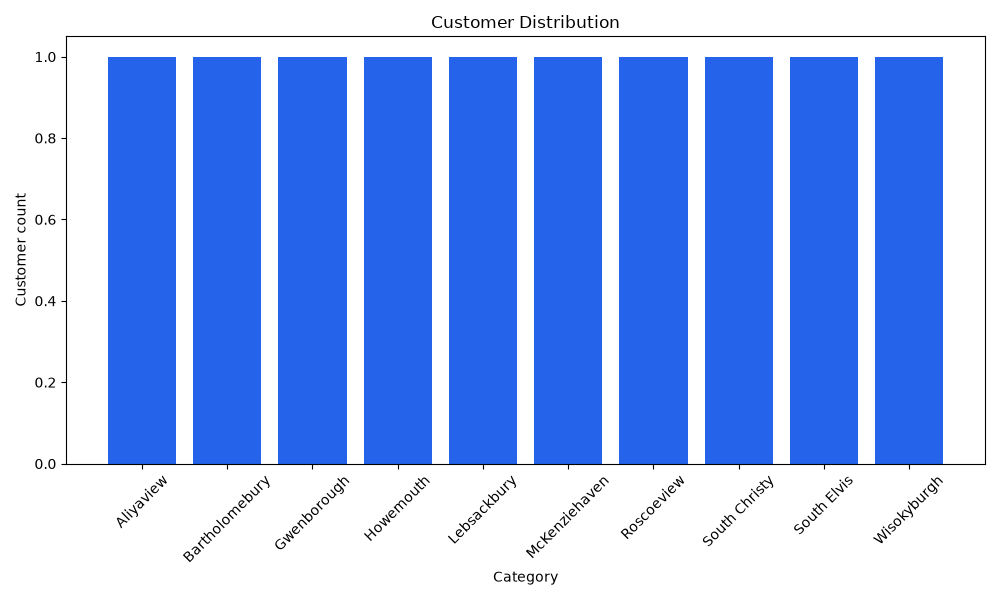
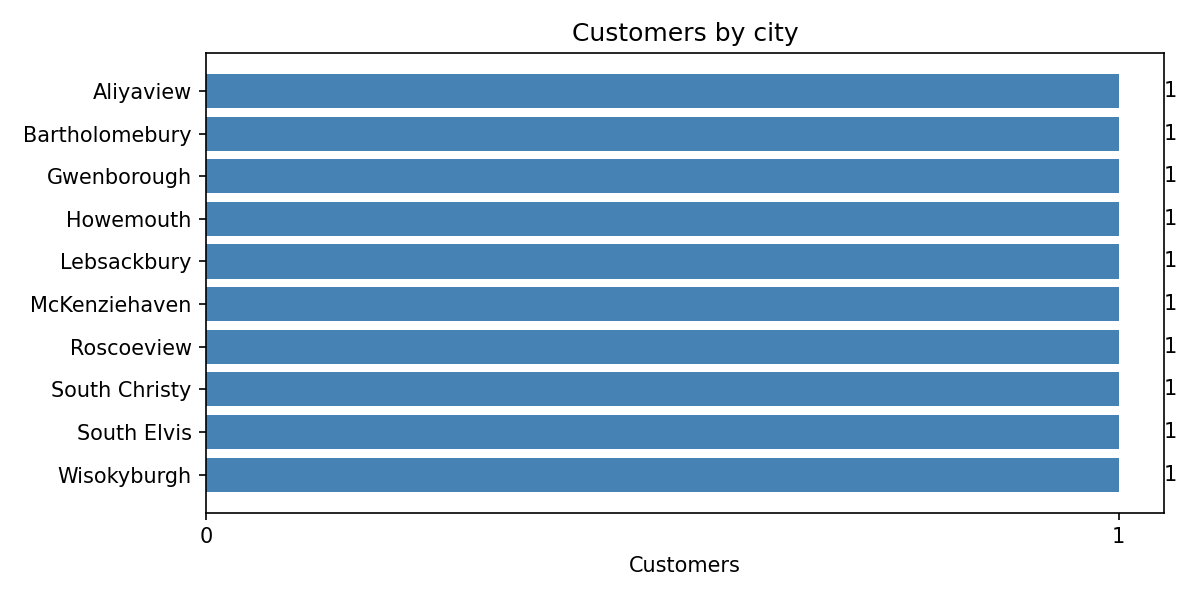
Refactor customer data extraction and enhance error handling; update output files and add email TLD distribution chart

diff --git a/user_analysis_day1/analysis.py b/user_analysis_day1/analysis.py
@@ -15,10 +15,10 @@ API_URL = "https://jsonplaceholder.typicode.com/users"
 def get_customers(url: str = API_URL) -> list[dict]:
     """Fetch the customer list. Report failures clearly instead of crashing."""
     try:
-        response = requests.get(url,timeout=10)
+        response = requests.get(url, timeout=10)
         response.raise_for_status()
         return response.json()
-    except requests.request.exceptions.RequestException as error:
+    except requests.exceptions.RequestException as error:
         print(f"Error fetching customers: {error}")
         return []
 
@@ -44,30 +44,26 @@ if customers:
 
 def extract_attributes(customers: list[dict]) -> list[dict]:
     """Return one flat dict per customer with the attributes listed in the task."""
-    rows = [
-        # creating an empty list , inisde it will have many dictionaries, each dictinary has individual attributes from the jason file(a nested dictinary)
+    return [
+        {
+            "customer_id": customer["id"],
+            "name": customer["name"],
+            "username": customer["username"],
+            "email": customer["email"],
+            "email_domain": customer["email"].split("@")[-1].lower(),
+            "phone": customer["phone"],
+            "city": customer["address"]["city"],
+            "zipcode": customer["address"]["zipcode"],
+            "latitude": float(customer["address"]["geo"]["lat"]),
+            "longitude": float(customer["address"]["geo"]["lng"]),
+            "company": customer["company"]["name"],
+            "website": customer["website"],
+        }
+        for customer in customers
     ]
-    # customers is the whole json file with (eg 500 customers), c stands for one out of the 500 customers.
-    for c in customers:
-        rows.append({
-            'id': c['id'],
-            'name': c['name'],
-            "username": c["username"],
-            "email": c["email"],
-            "email_domain": c["email"].split("@")[-1].lower(),
-            "phone": c["phone"],
-            "city": c["address"]["city"],
-            "zipcode": c["address"]["zipcode"],
-            "latitude": float(c["address"]["geo"]["lat"]),
-            "longitude": float(c["address"]["geo"]["lng"]),
-            "company": c["company"]["name"],
-            "website": c["website"],
-        })
-    return rows
 
 
 result_x = extract_attributes(customers)
-print(result_x)
 
 
 def unique_cities(customers: list[dict]) -> set[str]:
@@ -75,7 +71,12 @@ def unique_cities(customers: list[dict]) -> set[str]:
     return {c["address"]["city"] for c in customers}
 
 cities = unique_cities(customers)
-print(cities)
+print(f"Customers retrieved : {len(customers)}")
+print(f"Unique cities       : {len(cities)}")
+if len(cities) == len(customers):
+    print("Marketing insight   : Every customer is in a different city, so city is a poor segment for this sample.")
+else:
+    print("Marketing insight   : Repeated cities may be useful for geographic customer segmentation.")
 
 
 
@@ -95,30 +96,36 @@ def email_domain_counts(customers: list[dict]) -> dict[str, int]:
     domains = [c["email"].split("@")[-1].lower() for c in customers]
     return {d: domains.count(d) for d in set(domains)}
       
-distict_count = city_counts(customers)
+distinct_count = city_counts(customers)
 distinct_email = email_domain_counts(customers)
-# print_sorted(city_counts(customers), "Customers by city")
-# print_sorted(email_domain_counts(customers), "Customers by email domain")
-print(distict_count, "Distict customer Names")
-print(distinct_email, "distict emails")
+
+most_common_city = max(distinct_count, key=distinct_count.get)
+print(f"Most common city    : {most_common_city} ({distinct_count[most_common_city]})")
+print(f"Email domains       : {distinct_email}")
 
 
 def print_sorted(counts: dict[str, int], title: str) -> None:
     """Print counts from most to least common, ties listed alphabetically."""
     print(title)
     for name, n in sorted(counts.items(), key=lambda item: (-item[1], item[0])):
-        print(f"  {name}: {n}")
+        print(f"{name}: {n}")
 
 
-distinct_email = email_domain_counts(customers)
-print(distinct_email)
+
+print_sorted(distinct_count, "Customers by city")
+print_sorted(distinct_email, "Customers by email domain")
+
 
 def to_dataframe(rows: list[dict]) -> pd.DataFrame:
     return pd.DataFrame(rows)
-pd.set_option("display.max_columns", None)
+
+
 df = to_dataframe(result_x)
-print(df.shape)
-print(df.dtypes)
+pd.set_option("display.max_columns", None)
+print("DataFrame shape:", df.shape)
+print("DataFrame dtypes:\n", df.dtypes)
+
+
  # 2. Confirm pandas agrees with the hand-written counts
 hand_cities = city_counts(customers)
 hand_domains = email_domain_counts(customers)
@@ -148,8 +155,8 @@ df.to_csv(out_dir / "customers.csv", index=False)
 city_df = (
     df.groupby("city")
       .size()
-      .reset_index(name="count")
-      .sort_values(["count", "city"], ascending=[False, True])
+    .reset_index(name="customer_count")
+    .sort_values(["customer_count", "city"], ascending=[False, True])
 )
 city_df.to_csv(out_dir / "city_counts.csv", index=False)
 
@@ -186,6 +193,7 @@ plot_distribution(
     "output/customer_distribution.png",
     title="Customers by city",
 )
+print("Chart saved to: output/customer_distribution.png")
 
 # Chart 2: customers by email top-level domain
 df["email_tld"] = df["email_domain"].str.rsplit(".", n=1).str[-1]
